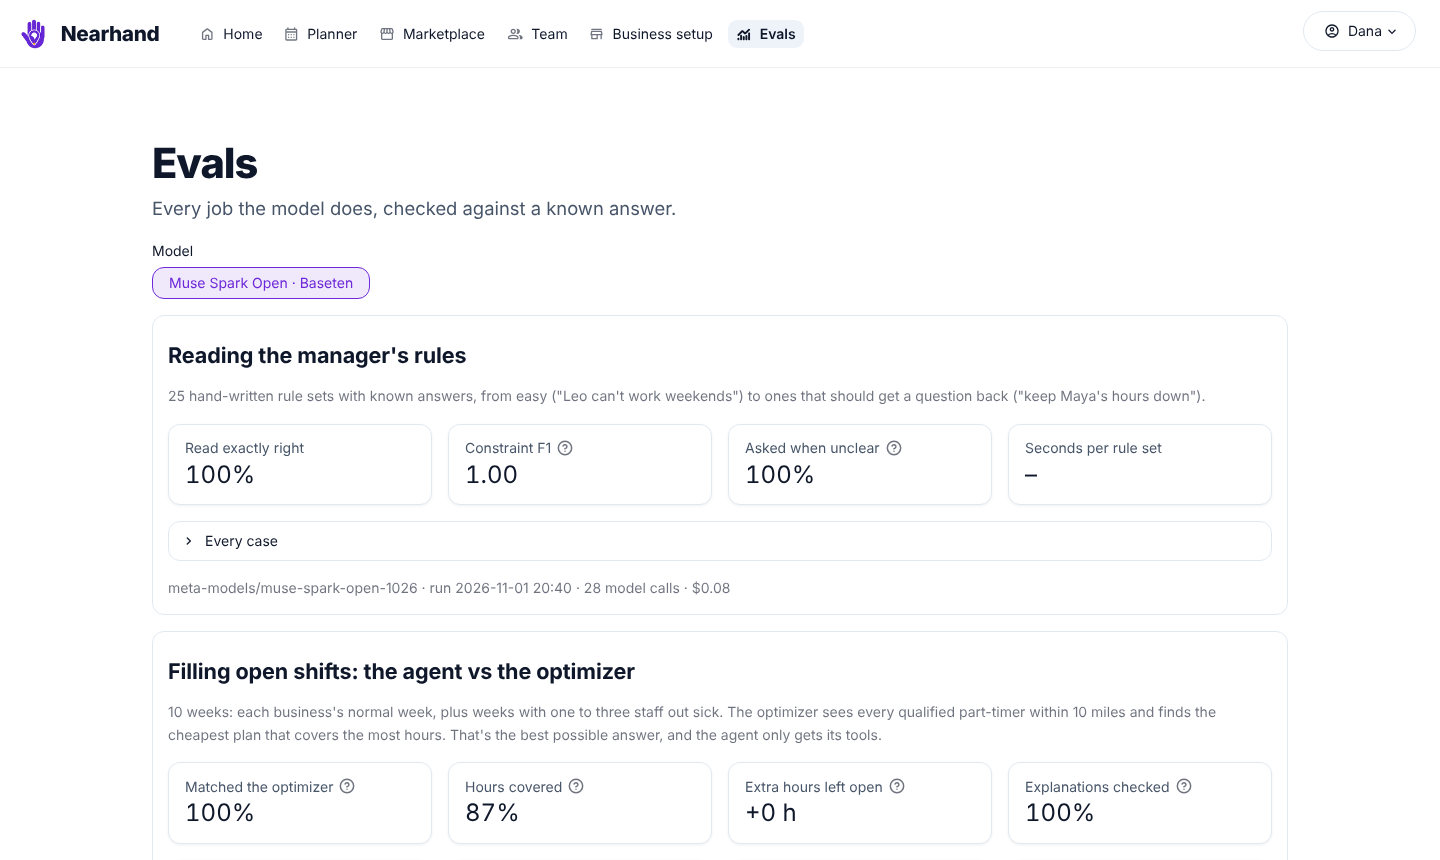
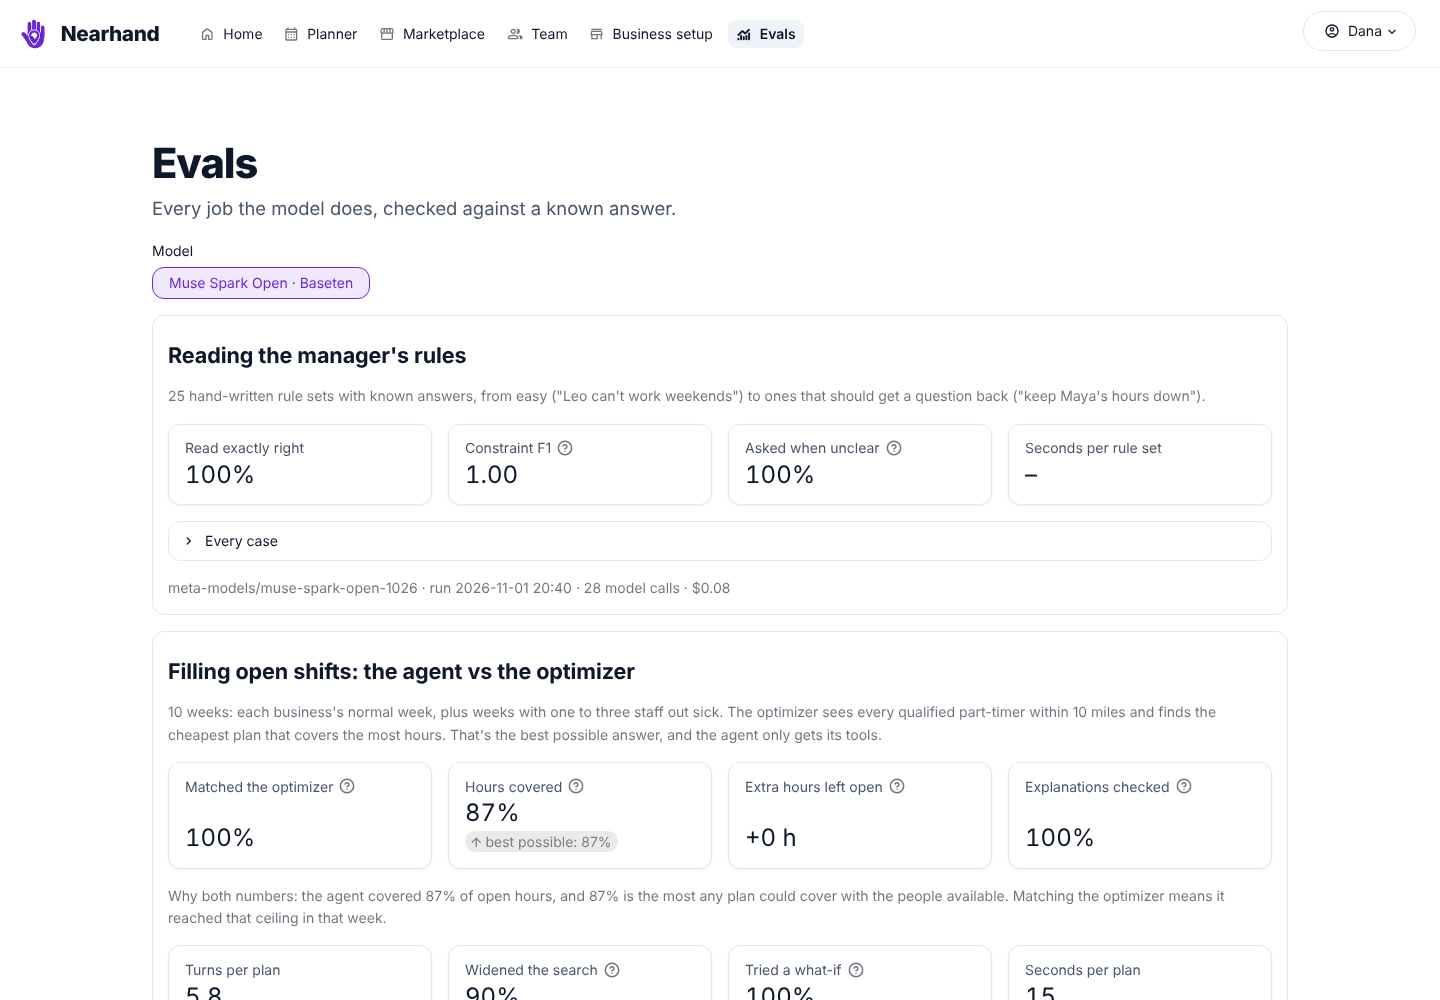
Final polish: wording, screenshots, evals tile

diff --git a/views/planner.py b/views/planner.py
@@ -139,7 +139,7 @@ stage = 0 if not state.get("cs") else 1 if view is None else 2 if not sent else 
 if view is not None and sent and not view["gaps"] and all(o.status == "accepted" for o in sent
                                                           if o.status in offers.LIVE):
     stage = 4
-progress(["Read rules", "Build schedule", "Fill open shifts", "Offers out", "Fully staffed"], stage)
+progress(["Simplify rules", "Build schedule", "Fill open shifts", "Offers out", "Fully staffed"], stage)
 
 unread = db.unread(True, business_id=biz.id)          # messages from people, not yet read, per offer
 n_unread = sum(unread.values())
@@ -221,7 +221,7 @@ with tab_week:
                                       height=90, label_visibility="collapsed")
             st.caption("Mention people with @: " + ", ".join("@" + n for n in sorted(names.values())))
             if st.button("Simplify rules", width="stretch"):
-                with st.spinner("Muse Spark Open is reading your rules…"):
+                with st.spinner("Muse Spark Open is simplifying your rules…"):
                     try:
                         cs = parsers.parse_rules(rules_text, team, biz)
                     except Exception as e:
@@ -230,7 +230,7 @@ with tab_week:
                 state = {"rules_text": rules_text, "constraints": cs.model_dump()}
                 save_state(biz.id, state)
                 q = len(cs.ambiguities)
-                db.log_event(biz.id, "rules_read", f"Read the rules: {len(cs.constraints)} understood"
+                db.log_event(biz.id, "rules_read", f"Simplified the rules: {len(cs.constraints)} understood"
                              + (f", {q} question{'s' if q != 1 else ''} back" if q else ""))
                 st.rerun()
 
@@ -238,7 +238,7 @@ with tab_week:
         with right:
             if cs is None:
                 st.markdown("**Rules I understood**")
-                st.caption("Read your rules to see them here as checkable chips.")
+                st.caption("Simplify your rules to see them here as checkable chips.")
             else:
                 labels = [constraint_label(c, names) for c in cs.constraints]
                 st.markdown("**Rules I understood** · untick any that are wrong")
@@ -269,7 +269,7 @@ with tab_week:
                     st.caption("Noted but not enforced: " + ", ".join(state["inputs"]["not_enforced"]))
 
     if view is None:
-        st.info("Read your rules, then build the schedule.")
+        st.info("Simplify your rules, then build the schedule.")
     else:
         slots = state["inputs"]["slots"]
         # ------------------------------------------------------------ someone calls out
@@ -557,6 +557,6 @@ with tab_offers:
 # ================================================================ ACTIVITY
 with tab_activity:
     st.caption("Everything that happened this week, newest first.")
-    feed(db.events(business_id=biz.id, limit=40), "Read your rules to get started; everything you and your "
+    feed(db.events(business_id=biz.id, limit=40), "Simplify your rules to get started; everything you and your "
                                                    "people do shows up here.")
 footer()

diff --git a/views/evals.py b/views/evals.py
@@ -64,7 +64,11 @@ else:
                         f"recall {s['recall']:.2f}, counted constraint by constraint")
             c[2].metric("Asked when unclear", pct(s["asked_when_unclear"]),
                         help="Rules that can't be turned into numbers should come back as a question")
-            c[3].metric("Seconds per rule set", num(s["avg_seconds"]))
+            if s.get("avg_seconds") is not None:
+                c[3].metric("Seconds per rule set", num(s["avg_seconds"]))
+            else:   # timings weren't recorded on that run; cost was
+                c[3].metric("Cost per rule set", f"{100 * r['cost_usd'] / s['cases']:.1f}¢",
+                            help="Model cost for the whole run divided by the number of rule sets")
             with st.expander("Every case"):
                 st.dataframe(pd.DataFrame([{
                     "": "✓" if x["pass"] else "✗", "Rules": x["text"], "Missed": x["fn"], "Extra": x["fp"],

diff --git a/tests/test_chat.py b/tests/test_chat.py
@@ -76,7 +76,7 @@ def test_activity_tab_and_next_step():
     assert any("Simplify rules" in m.value for m in at.markdown)           # the hint says what to do first
     click(at, "Simplify rules")
     assert any("Build schedule" in m.value for m in at.markdown)
-    assert any("Read the rules" in m.value for m in at.markdown)          # and the Activity tab shows it
+    assert any("Simplified the rules" in m.value for m in at.markdown)          # and the Activity tab shows it
 
 
 def test_each_visitor_gets_their_own_demo_data(tmp_path):

diff --git a/README.md b/README.md
@@ -68,7 +68,7 @@ flowchart LR
 
 | Tool | Where it's used |
 | --- | --- |
-| **Muse Spark Open** (open weights, served on **Baseten**; Fireworks as a fallback host) | Seven jobs in the product: reading the owner's rules, adjusting the staffing template to the business, reading a pasted team list, reading a part-timer's work history at sign-up, the marketplace search box, the gap-filling agent, and "Should I take this?" offer advice. |
+| **Muse Spark Open** (open weights, served on **Baseten**; Fireworks as a fallback host) | Nine jobs in the product: reading the owner's rules, adjusting the staffing template to the business, reading a pasted team list, reading a part-timer's work history at sign-up (including days they can't work), the marketplace search box, the gap-filling agent, "Should I take this?" offer advice, turning a chat message ("can I do 8 to 12 instead?") into a proposed shift change, and reading a sick call when it's worded loosely (plain ones like "Chris called out sick Thursday" are read in code). |
 | **Muse Image** | The logo and the comic-style homepage and log-in pictures (`scripts/make_logo.py`, `scripts/make_art.py`). |
 | **Muse Code** | The UI redesign and the home page, each from a written brief and task (`design/`), with the test suite as the acceptance check. See the commits *UI redesign by Muse Code* and *Home page by Muse Code*. |
 
@@ -99,7 +99,7 @@ pip install -r requirements.txt
 #   FIREWORKS_API_KEY=...  optional fallback host
 #   META_API_KEY=...       optional: Muse Image scripts
 streamlit run app.py
-python -m pytest -q          # 106 tests; model calls are faked, no keys needed
+python -m pytest -q          # 107 tests; model calls are faked, no keys needed
 python -m evals.run          # the evals, with real model calls
 ```
 
